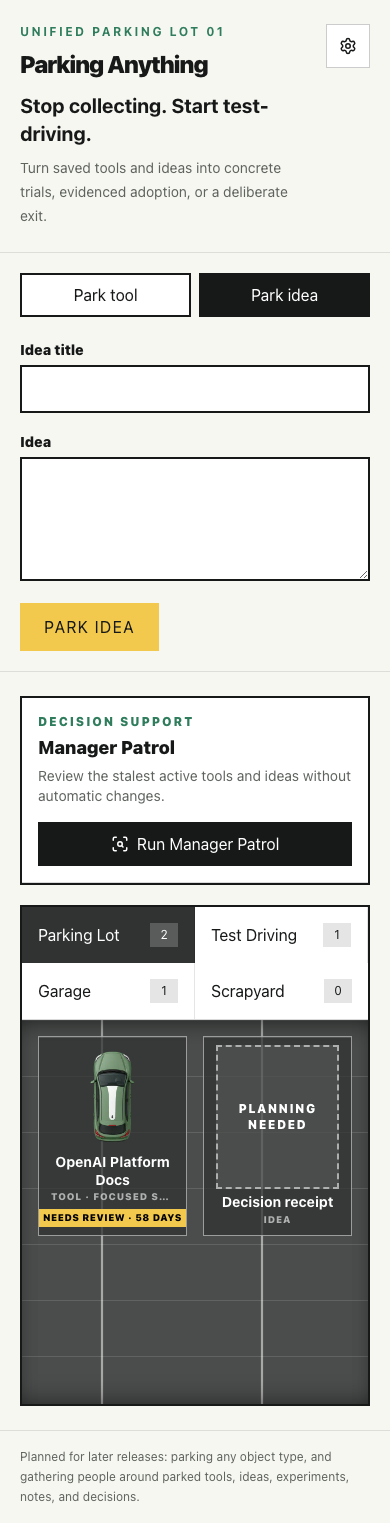
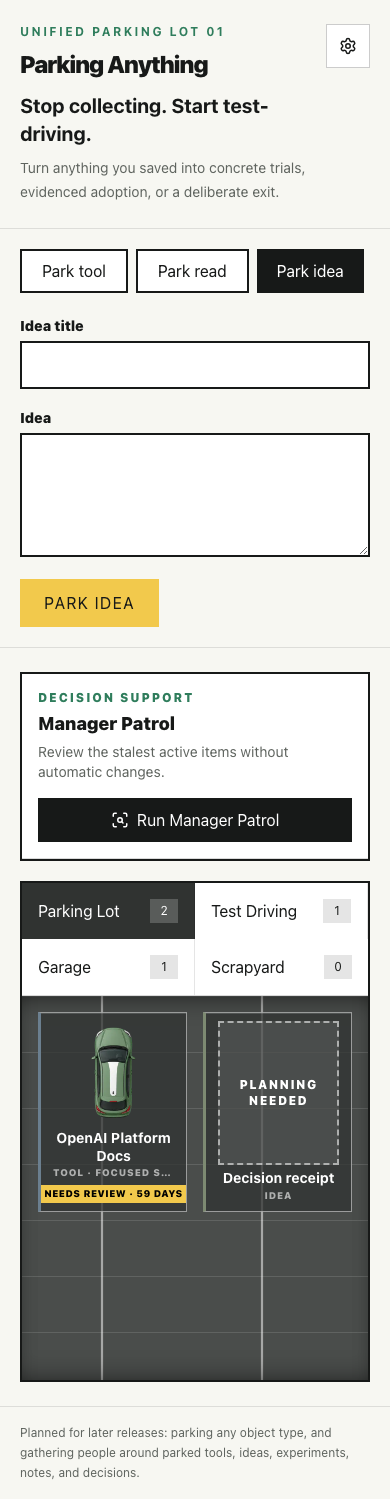
feat: mark a card's kind with a dedicated accent band

diff --git a/src/components/parking/car-sprite.tsx b/src/components/parking/car-sprite.tsx
@@ -1,6 +1,7 @@
 import Image from "next/image";
 import type { CSSProperties } from "react";
 
+import { displayFor } from "@/lib/parking/link-kinds";
 import type { EffortTier, ParkingItem } from "@/lib/parking/schemas";
 
 const CAR_IMAGES: Record<EffortTier, string> = {
@@ -14,12 +15,6 @@ const STATUS_LABELS: Record<ParkingItem["status"], string> = {
   test_driving: "Test Driving",
   garaged: "Garaged",
   scrapped: "Scrapped",
-};
-
-const EFFORT_LABELS: Record<EffortTier, string> = {
-  quick_spin: "Quick spin",
-  focused_session: "Focused session",
-  weekend_project: "Weekend project",
 };
 
 /*
@@ -45,7 +40,7 @@ export function CarSprite({
   onSelect,
 }: CarSpriteProps) {
   const statusLabel = STATUS_LABELS[item.status];
-  const kindLabel = item.kind === "ai_tool" ? "Tool" : "Idea";
+  const display = displayFor(item.kind);
   const enterDelay =
     Math.min(enterIndex, STAGGER_MAX_STEPS) * STAGGER_STEP_MS;
 
@@ -54,7 +49,10 @@ export function CarSprite({
       type="button"
       aria-label={`${item.title}, ${statusLabel}`}
       onClick={(event) => onSelect(item.id, event.currentTarget)}
-      style={{ "--enter-delay": `${enterDelay}ms` } as CSSProperties}
+      style={{
+        "--enter-delay": `${enterDelay}ms`,
+        "--kind-accent": `var(${display.accentVar})`,
+      } as CSSProperties}
       className="car-card car-enter group flex h-full min-w-0 flex-col items-center justify-between overflow-hidden border border-white/50 bg-[var(--asphalt-deep)]/75 px-3 py-2 text-white hover:border-[var(--safety)] hover:bg-[var(--asphalt-deep)]"
     >
       <span className="relative min-h-0 w-full flex-1">
@@ -81,8 +79,8 @@ export function CarSprite({
         {item.title}
       </span>
       <span className="mt-0.5 w-full truncate text-center text-[0.6rem] font-black uppercase tracking-[0.08em] text-white/60">
-        {kindLabel}
-        {item.effortTier ? ` · ${EFFORT_LABELS[item.effortTier]}` : ""}
+        {display.label}
+        {item.effortTier ? ` · ${display.effortLabels[item.effortTier]}` : ""}
       </span>
       {needsReview ? (
         <span className="mt-1 whitespace-nowrap bg-[var(--safety)] px-1.5 py-0.5 text-[0.6rem] font-black uppercase tracking-[0.04em] text-black">

diff --git a/src/components/parking/parking-lot.test.tsx b/src/components/parking/parking-lot.test.tsx
@@ -54,6 +54,32 @@ describe("ParkingLot", () => {
 
     expect(screen.getByText("No cars are waiting in this zone.")).toBeVisible();
   });
+
+  it("labels a read with its own kind wording and accent", () => {
+    const read = {
+      id: "read-1",
+      kind: "read" as const,
+      status: "parked" as const,
+      url: "https://example.com/article",
+      title: "On interface craft",
+      summary: "Argues small details compound.",
+      effortTier: "focused_session" as const,
+      suggestedTestTask: "Pick one detail.",
+      usefulnessHypothesis: "May sharpen the next pass.",
+      createdAt: "2026-07-30T00:00:00.000Z",
+      updatedAt: "2026-07-30T00:00:00.000Z",
+      lastActivityAt: "2026-07-30T00:00:00.000Z",
+    };
+
+    render(<ParkingLot items={[read]} onSelect={vi.fn()} now={new Date("2026-07-30T00:00:00.000Z")} />);
+
+    expect(screen.getByText("Read · Careful read")).toBeVisible();
+    // jsdom does not resolve CSS custom properties through toHaveStyle, so assert the
+    // inline style attribute directly — otherwise this fails for the wrong reason.
+    expect(
+      screen.getByRole("button", { name: "On interface craft, Parked" }).getAttribute("style"),
+    ).toContain("--kind-accent: var(--kind-read)");
+  });
 });
 
 describe("StatusTabs", () => {

diff --git a/src/app/globals.css b/src/app/globals.css
@@ -12,6 +12,13 @@
   --scrap: #b84a45;
   --line: #ffffff;
 
+  /* Kind accents. Deliberately outside the status/action palette: --safety is
+     reserved for the attention state, --garage and --scrap each already carry a
+     status and an action meaning. */
+  --kind-tool: #6b7f8f;
+  --kind-read: #8a6ea8;
+  --kind-idea: #7d8a72;
+
   /* Motion curves. The built-in CSS easings are too weak to read as intentional. */
   --ease-out: cubic-bezier(0.23, 1, 0.32, 1);
   --ease-in-out: cubic-bezier(0.77, 0, 0.175, 1);
@@ -145,6 +152,7 @@ h3 {
 /* A parked car is a physical card: a top highlight edge, and it lifts on hover. */
 .car-card {
   --press-scale: 0.985;
+  border-left: 3px solid var(--kind-accent, transparent);
   box-shadow: inset 0 1px 0 rgba(255, 255, 255, 0.14);
   transition:
     transform var(--press) var(--ease-out),
